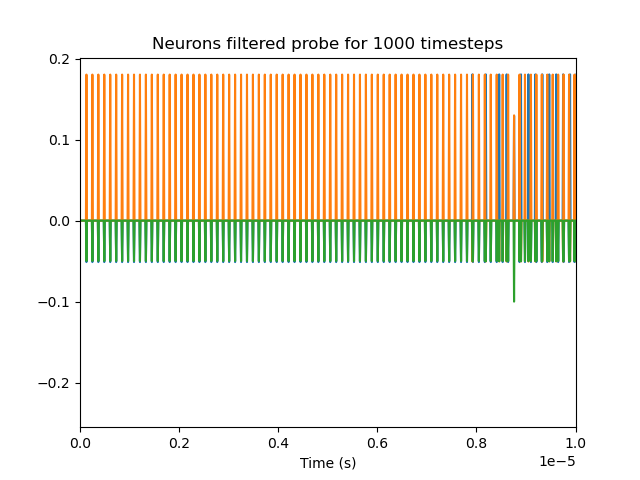
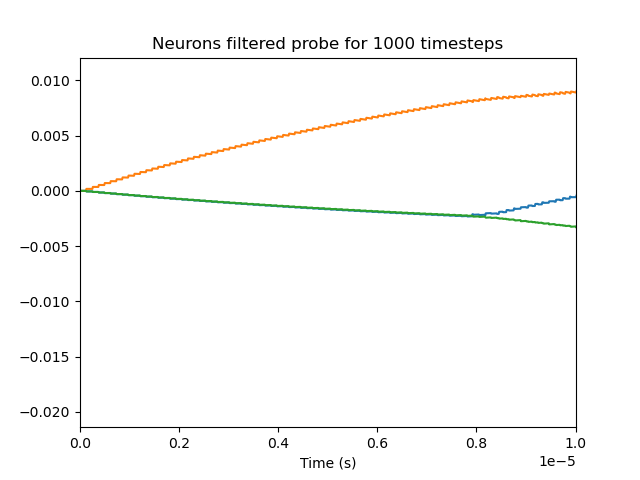
updated plot for 4 neurons

diff --git a/four-neurons.py b/four-neurons.py
@@ -62,7 +62,7 @@ with model:
             encoders=[[-1, -1, 1], [-1, 1, -1], [1, -1, -1], [-1, -1, -1]],
         )
 
-threeChannels, end_channel = phase_automata(driving_symbol="0", probability_of_transition=False)
+threeChannels, end_channel = phase_automata(driving_symbol="1", probability_of_transition=False)
 print(threeChannels)
 tC = threeChannels.transpose((1, 0))
 
@@ -79,7 +79,7 @@ with model:
     # Subthreshold soma voltages of the neurons
     voltage = nengo.Probe(neurons.neurons, 'voltage')
     # Spikes filtered by a 10ms post-synaptic filter
-    filtered = nengo.Probe(neurons, synapse=1e-11)
+    filtered = nengo.Probe(neurons, synapse=1e-5)
     
 with nengo.Simulator(model, dt=1e-8) as sim:  # Create a simulator
     sim.run(1000000e-9)  # Run it for 10k nanosecond
@@ -108,7 +108,7 @@ plt.title("Neuron Spikes")
 plt.subplot(1, 2, 1)
 plt.xlabel("Time (s)")
 rasterplot(t[0:plot_range], sim.data[spikes][0:plot_range], colors=['g', 'b', 'r', 'k'])
-plt.yticks((1,2,3,4), ("Channel 0 neuron","Channel 1 neuron" ,"Channel 2 neuron","Off neuron"))
+plt.yticks((1,2,3,4), ("C0 neuron","C1 neuron" ,"C2 neuron","Off neuron"))
 plt.ylim(4.5, 0.5)
 
 # Plot the soma voltages of the neurons
